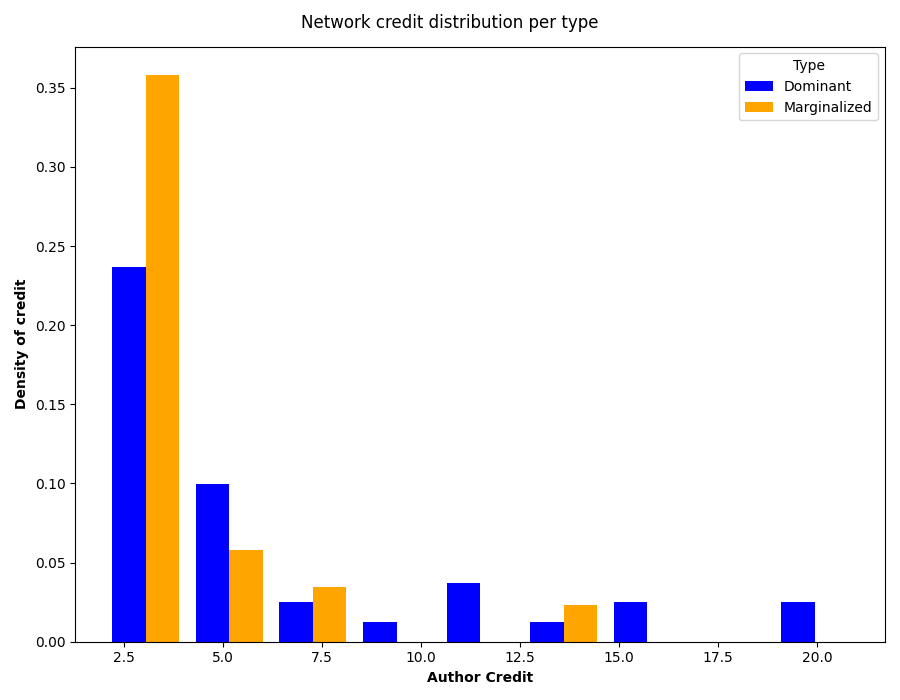
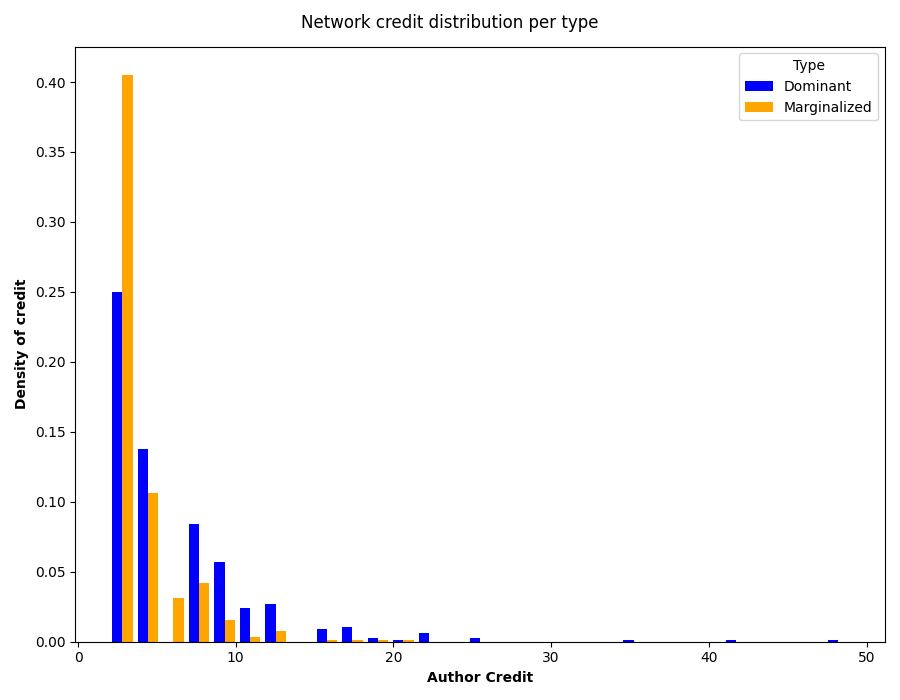
Added model 1 changes

diff --git a/docs/outputs/model-1/Bibsonomy-3Page.html b/docs/outputs/model-1/Bibsonomy-3Page.html
@@ -3,7 +3,7 @@
         <!DOCTYPE html>
         <html>
             <head>
-            <title>Bibsonomy-2</title>
+            <title>Bibsonomy-3</title>
             <meta charset="UTF-8">
             <meta name="viewport" content="width=device-width, initial-scale=1">
             <link rel="stylesheet" href="https://www.w3schools.com/w3css/4/w3.css">
@@ -43,7 +43,7 @@
 
             <!-- Header -->
             <header class="w3-panel w3-center w3-padding-32 w3-light-grey">
-                <h1 class="w3-xlarge">Simulation outputs for Bibsonomy-2 </h1>
+                <h1 class="w3-xlarge">Simulation outputs for Bibsonomy-3 </h1>
             </header>
 
             <!-- Chart Grid -->
@@ -72,8 +72,8 @@
                             <td>0.5</td>
                         </tr>
                     </table>
-                    <img src=Bibsonomy-2Plots.png style="width:100%">
-                    <img src=Bibsonomy-2RubinPlot.png style="width:100%">
+                    <img src=Bibsonomy-3Plots.png style="width:100%">
+                    <img src=Bibsonomy-3RubinPlot.png style="width:100%">
                 </div>
 
                 <div class="w3-half">
@@ -93,15 +93,15 @@
                         </tr>
                         <tr>
                             <td>Number of Topics</td>
-                            <td>76</td>
+                            <td>78</td>
                         </tr>
                         <tr>
                             <td>Number of Types</td>
                             <td>2</td>
                         </tr>
                     </table>
-                    <img src=Bibsonomy-2Deg.png style="width:100%">
-                    <img src=Bibsonomy-2Credit.png style="width:100%">
+                    <img src=Bibsonomy-3Deg.png style="width:100%">
+                    <img src=Bibsonomy-3Credit.png style="width:100%">
                 </div>
             </div>
             

diff --git a/docs/outputs/model-1/Bibsonomy-4Page.html b/docs/outputs/model-1/Bibsonomy-4Page.html
@@ -3,7 +3,7 @@
         <!DOCTYPE html>
         <html>
             <head>
-            <title>Bibsonomy-2</title>
+            <title>Bibsonomy-4</title>
             <meta charset="UTF-8">
             <meta name="viewport" content="width=device-width, initial-scale=1">
             <link rel="stylesheet" href="https://www.w3schools.com/w3css/4/w3.css">
@@ -43,7 +43,7 @@
 
             <!-- Header -->
             <header class="w3-panel w3-center w3-padding-32 w3-light-grey">
-                <h1 class="w3-xlarge">Simulation outputs for Bibsonomy-2 </h1>
+                <h1 class="w3-xlarge">Simulation outputs for Bibsonomy-4 </h1>
             </header>
 
             <!-- Chart Grid -->
@@ -72,8 +72,8 @@
                             <td>0.5</td>
                         </tr>
                     </table>
-                    <img src=Bibsonomy-2Plots.png style="width:100%">
-                    <img src=Bibsonomy-2RubinPlot.png style="width:100%">
+                    <img src=Bibsonomy-4Plots.png style="width:100%">
+                    <img src=Bibsonomy-4RubinPlot.png style="width:100%">
                 </div>
 
                 <div class="w3-half">
@@ -93,15 +93,15 @@
                         </tr>
                         <tr>
                             <td>Number of Topics</td>
-                            <td>76</td>
+                            <td>83</td>
                         </tr>
                         <tr>
                             <td>Number of Types</td>
                             <td>2</td>
                         </tr>
                     </table>
-                    <img src=Bibsonomy-2Deg.png style="width:100%">
-                    <img src=Bibsonomy-2Credit.png style="width:100%">
+                    <img src=Bibsonomy-4Deg.png style="width:100%">
+                    <img src=Bibsonomy-4Credit.png style="width:100%">
                 </div>
             </div>
             

diff --git a/docs/outputs/model-1/Bibsonomy-5Page.html b/docs/outputs/model-1/Bibsonomy-5Page.html
@@ -3,7 +3,7 @@
         <!DOCTYPE html>
         <html>
             <head>
-            <title>Bibsonomy-2</title>
+            <title>Bibsonomy-5</title>
             <meta charset="UTF-8">
             <meta name="viewport" content="width=device-width, initial-scale=1">
             <link rel="stylesheet" href="https://www.w3schools.com/w3css/4/w3.css">
@@ -43,7 +43,7 @@
 
             <!-- Header -->
             <header class="w3-panel w3-center w3-padding-32 w3-light-grey">
-                <h1 class="w3-xlarge">Simulation outputs for Bibsonomy-2 </h1>
+                <h1 class="w3-xlarge">Simulation outputs for Bibsonomy-5 </h1>
             </header>
 
             <!-- Chart Grid -->
@@ -72,8 +72,8 @@
                             <td>0.5</td>
                         </tr>
                     </table>
-                    <img src=Bibsonomy-2Plots.png style="width:100%">
-                    <img src=Bibsonomy-2RubinPlot.png style="width:100%">
+                    <img src=Bibsonomy-5Plots.png style="width:100%">
+                    <img src=Bibsonomy-5RubinPlot.png style="width:100%">
                 </div>
 
                 <div class="w3-half">
@@ -93,15 +93,15 @@
                         </tr>
                         <tr>
                             <td>Number of Topics</td>
-                            <td>76</td>
+                            <td>73</td>
                         </tr>
                         <tr>
                             <td>Number of Types</td>
                             <td>2</td>
                         </tr>
                     </table>
-                    <img src=Bibsonomy-2Deg.png style="width:100%">
-                    <img src=Bibsonomy-2Credit.png style="width:100%">
+                    <img src=Bibsonomy-5Deg.png style="width:100%">
+                    <img src=Bibsonomy-5Credit.png style="width:100%">
                 </div>
             </div>
             

diff --git a/docs/outputs/model-1/Bibsonomy-6Page.html b/docs/outputs/model-1/Bibsonomy-6Page.html
@@ -3,7 +3,7 @@
         <!DOCTYPE html>
         <html>
             <head>
-            <title>Bibsonomy-2</title>
+            <title>Bibsonomy-6</title>
             <meta charset="UTF-8">
             <meta name="viewport" content="width=device-width, initial-scale=1">
             <link rel="stylesheet" href="https://www.w3schools.com/w3css/4/w3.css">
@@ -43,7 +43,7 @@
 
             <!-- Header -->
             <header class="w3-panel w3-center w3-padding-32 w3-light-grey">
-                <h1 class="w3-xlarge">Simulation outputs for Bibsonomy-2 </h1>
+                <h1 class="w3-xlarge">Simulation outputs for Bibsonomy-6 </h1>
             </header>
 
             <!-- Chart Grid -->
@@ -72,8 +72,8 @@
                             <td>0.5</td>
                         </tr>
                     </table>
-                    <img src=Bibsonomy-2Plots.png style="width:100%">
-                    <img src=Bibsonomy-2RubinPlot.png style="width:100%">
+                    <img src=Bibsonomy-6Plots.png style="width:100%">
+                    <img src=Bibsonomy-6RubinPlot.png style="width:100%">
                 </div>
 
                 <div class="w3-half">
@@ -93,15 +93,15 @@
                         </tr>
                         <tr>
                             <td>Number of Topics</td>
-                            <td>76</td>
+                            <td>33</td>
                         </tr>
                         <tr>
                             <td>Number of Types</td>
                             <td>2</td>
                         </tr>
                     </table>
-                    <img src=Bibsonomy-2Deg.png style="width:100%">
-                    <img src=Bibsonomy-2Credit.png style="width:100%">
+                    <img src=Bibsonomy-6Deg.png style="width:100%">
+                    <img src=Bibsonomy-6Credit.png style="width:100%">
                 </div>
             </div>
             

diff --git a/docs/outputs/model-1/Bibsonomy-7Page.html b/docs/outputs/model-1/Bibsonomy-7Page.html
@@ -3,7 +3,7 @@
         <!DOCTYPE html>
         <html>
             <head>
-            <title>Bibsonomy-2</title>
+            <title>Bibsonomy-7</title>
             <meta charset="UTF-8">
             <meta name="viewport" content="width=device-width, initial-scale=1">
             <link rel="stylesheet" href="https://www.w3schools.com/w3css/4/w3.css">
@@ -43,7 +43,7 @@
 
             <!-- Header -->
             <header class="w3-panel w3-center w3-padding-32 w3-light-grey">
-                <h1 class="w3-xlarge">Simulation outputs for Bibsonomy-2 </h1>
+                <h1 class="w3-xlarge">Simulation outputs for Bibsonomy-7 </h1>
             </header>
 
             <!-- Chart Grid -->
@@ -72,8 +72,8 @@
                             <td>0.5</td>
                         </tr>
                     </table>
-                    <img src=Bibsonomy-2Plots.png style="width:100%">
-                    <img src=Bibsonomy-2RubinPlot.png style="width:100%">
+                    <img src=Bibsonomy-7Plots.png style="width:100%">
+                    <img src=Bibsonomy-7RubinPlot.png style="width:100%">
                 </div>
 
                 <div class="w3-half">
@@ -93,15 +93,15 @@
                         </tr>
                         <tr>
                             <td>Number of Topics</td>
-                            <td>76</td>
+                            <td>89</td>
                         </tr>
                         <tr>
                             <td>Number of Types</td>
                             <td>2</td>
                         </tr>
                     </table>
-                    <img src=Bibsonomy-2Deg.png style="width:100%">
-                    <img src=Bibsonomy-2Credit.png style="width:100%">
+                    <img src=Bibsonomy-7Deg.png style="width:100%">
+                    <img src=Bibsonomy-7Credit.png style="width:100%">
                 </div>
             </div>
             

diff --git a/docs/outputs/model-1/Bibsonomy-8Page.html b/docs/outputs/model-1/Bibsonomy-8Page.html
@@ -3,7 +3,7 @@
         <!DOCTYPE html>
         <html>
             <head>
-            <title>Bibsonomy-2</title>
+            <title>Bibsonomy-8</title>
             <meta charset="UTF-8">
             <meta name="viewport" content="width=device-width, initial-scale=1">
             <link rel="stylesheet" href="https://www.w3schools.com/w3css/4/w3.css">
@@ -43,7 +43,7 @@
 
             <!-- Header -->
             <header class="w3-panel w3-center w3-padding-32 w3-light-grey">
-                <h1 class="w3-xlarge">Simulation outputs for Bibsonomy-2 </h1>
+                <h1 class="w3-xlarge">Simulation outputs for Bibsonomy-8 </h1>
             </header>
 
             <!-- Chart Grid -->
@@ -72,8 +72,8 @@
                             <td>0.5</td>
                         </tr>
                     </table>
-                    <img src=Bibsonomy-2Plots.png style="width:100%">
-                    <img src=Bibsonomy-2RubinPlot.png style="width:100%">
+                    <img src=Bibsonomy-8Plots.png style="width:100%">
+                    <img src=Bibsonomy-8RubinPlot.png style="width:100%">
                 </div>
 
                 <div class="w3-half">
@@ -93,15 +93,15 @@
                         </tr>
                         <tr>
                             <td>Number of Topics</td>
-                            <td>76</td>
+                            <td>72</td>
                         </tr>
                         <tr>
                             <td>Number of Types</td>
                             <td>2</td>
                         </tr>
                     </table>
-                    <img src=Bibsonomy-2Deg.png style="width:100%">
-                    <img src=Bibsonomy-2Credit.png style="width:100%">
+                    <img src=Bibsonomy-8Deg.png style="width:100%">
+                    <img src=Bibsonomy-8Credit.png style="width:100%">
                 </div>
             </div>
             

diff --git a/docs/outputs/model-1/Bibsonomy-9Page.html b/docs/outputs/model-1/Bibsonomy-9Page.html
@@ -3,7 +3,7 @@
         <!DOCTYPE html>
         <html>
             <head>
-            <title>Bibsonomy-2</title>
+            <title>Bibsonomy-9</title>
             <meta charset="UTF-8">
             <meta name="viewport" content="width=device-width, initial-scale=1">
             <link rel="stylesheet" href="https://www.w3schools.com/w3css/4/w3.css">
@@ -43,7 +43,7 @@
 
             <!-- Header -->
             <header class="w3-panel w3-center w3-padding-32 w3-light-grey">
-                <h1 class="w3-xlarge">Simulation outputs for Bibsonomy-2 </h1>
+                <h1 class="w3-xlarge">Simulation outputs for Bibsonomy-9 </h1>
             </header>
 
             <!-- Chart Grid -->
@@ -72,8 +72,8 @@
                             <td>0.5</td>
                         </tr>
                     </table>
-                    <img src=Bibsonomy-2Plots.png style="width:100%">
-                    <img src=Bibsonomy-2RubinPlot.png style="width:100%">
+                    <img src=Bibsonomy-9Plots.png style="width:100%">
+                    <img src=Bibsonomy-9RubinPlot.png style="width:100%">
                 </div>
 
                 <div class="w3-half">
@@ -93,15 +93,15 @@
                         </tr>
                         <tr>
                             <td>Number of Topics</td>
-                            <td>76</td>
+                            <td>95</td>
                         </tr>
                         <tr>
                             <td>Number of Types</td>
                             <td>2</td>
                         </tr>
                     </table>
-                    <img src=Bibsonomy-2Deg.png style="width:100%">
-                    <img src=Bibsonomy-2Credit.png style="width:100%">
+                    <img src=Bibsonomy-9Deg.png style="width:100%">
+                    <img src=Bibsonomy-9Credit.png style="width:100%">
                 </div>
             </div>
             

diff --git a/docs/outputs/model-1/combined-results-model-1Page.html b/docs/outputs/model-1/combined-results-model-1Page.html
@@ -85,15 +85,15 @@
                         </tr>
                         <tr>
                             <td>Number of Papers</td>
-                            <td>247</td>
+                            <td>10000</td>
                         </tr>
                         <tr>
                             <td>Number of Authors</td>
-                            <td>247</td>
+                            <td>8022</td>
                         </tr>
                         <tr>
                             <td>Number of Topics</td>
-                            <td>61</td>
+                            <td>739</td>
                         </tr>
                         <tr>
                             <td>Number of Types</td>

diff --git a/docs/outputs/model-1/Bibsonomy-0Page.html b/docs/outputs/model-1/Bibsonomy-0Page.html
@@ -85,7 +85,7 @@
                         </tr>
                         <tr>
                             <td>Number of Papers</td>
-                            <td>100</td>
+                            <td>1000</td>
                         </tr>
                         <tr>
                             <td>Number of Authors</td>
@@ -93,7 +93,7 @@
                         </tr>
                         <tr>
                             <td>Number of Topics</td>
-                            <td>25</td>
+                            <td>66</td>
                         </tr>
                         <tr>
                             <td>Number of Types</td>

diff --git a/docs/outputs/model-1/Bibsonomy-1Page.html b/docs/outputs/model-1/Bibsonomy-1Page.html
@@ -85,7 +85,7 @@
                         </tr>
                         <tr>
                             <td>Number of Papers</td>
-                            <td>100</td>
+                            <td>1000</td>
                         </tr>
                         <tr>
                             <td>Number of Authors</td>
@@ -93,7 +93,7 @@
                         </tr>
                         <tr>
                             <td>Number of Topics</td>
-                            <td>19</td>
+                            <td>74</td>
                         </tr>
                         <tr>
                             <td>Number of Types</td>
